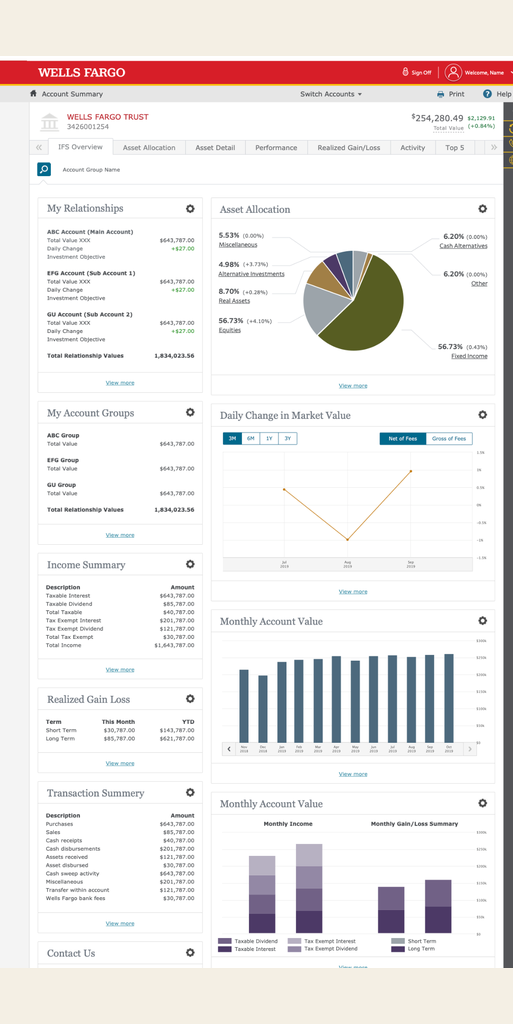
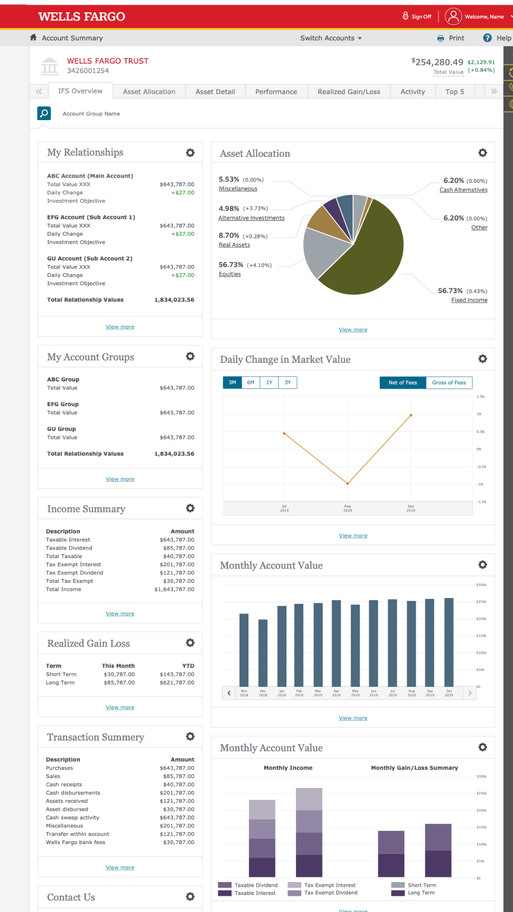
Add files via upload

diff --git a/index.html b/index.html
@@ -58,7 +58,7 @@
               <img src="images/iphone-sc-home.png" alt="Wells Fargo Security Center mobile screen" />
             </div>
             <p>The Wells Fargo Security Center allows customers to manage security settings, learn best practices, and avoid scams.</p>
-            <a class="btn-link" href="security-center.html">Learn More</a>
+            <a class="btn-primary" href="security-center.html">Learn More</a>
           </article>
 
           <article class="work-tile">
@@ -68,7 +68,7 @@
               <img src="images/new-inbox.png" alt="Wells Fargo Inbox and Alerts Center mobile screen" />
             </div>
             <p>Wells Fargo manages account notifications through the Manage Alerts feature within online and mobile banking, allowing customers to track transactions, low balances, and security events via push notifications, email, or text messages.</p>
-            <a class="btn-link" href="alerts-center.html">Learn More</a>
+            <a class="btn-primary" href="alerts-center.html">Learn More</a>
           </article>
 
           <article class="work-tile">
@@ -78,7 +78,7 @@
               <img src="images/new-ifs-dash.png" alt="Wells Fargo Trust Services dashboard" />
             </div>
             <p>Wells Fargo Trust Services provide fiduciary management, asset administration, and estate settlement, acting as a corporate trustee across all 50 states. Key offerings include trust and estate planning, special needs trust management, and philanthropic solutions.</p>
-            <a class="btn-link" href="trust-services.html">Learn More</a>
+            <a class="btn-primary" href="trust-services.html">Learn More</a>
           </article>
 
         </div>

diff --git a/styles.css b/styles.css
@@ -245,7 +245,8 @@ img {
   text-align: center;
 }
 
-.work-tile .btn-link {
+.work-tile .btn-link,
+.work-tile .btn-primary {
   margin-top: auto;
 }
 
@@ -273,7 +274,6 @@ img {
 
 .work-media {
   background: #ece4d4;
-  border: 1px solid var(--color-border);
   display: flex;
   align-items: center;
   justify-content: center;
@@ -296,6 +296,29 @@ img {
 
 .btn-link:hover {
   opacity: 0.7;
+}
+
+.btn-primary {
+  display: inline-block;
+  background: #1c2b3a;
+  color: #ffffff;
+  font-family: var(--font-body);
+  font-weight: 700;
+  font-size: 16px;
+  padding: 14px 32px;
+  border-radius: 6px;
+  border: 1px solid #1c2b3a;
+  text-decoration: none;
+  transition: background 0.15s ease, transform 0.1s ease;
+}
+
+.btn-primary:hover,
+.btn-primary:focus-visible {
+  background: #0f1c27;
+}
+
+.btn-primary:active {
+  transform: translateY(1px);
 }
 
 /* Placeholder banner (dev-only, remove once real content/images are swapped in) */
